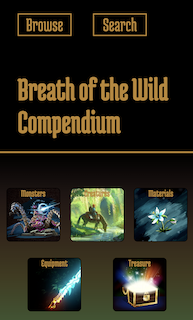
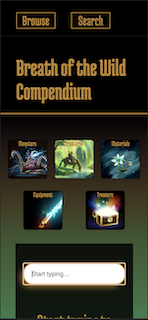
README updates

diff --git a/js/script.js b/js/script.js
@@ -10,9 +10,9 @@ let allNames = [];
 //CACHE ELEMENTS
 //List elements
 const $container = $('#category-container');
-const $listContainer = $('#list-container')
+const $listContainer = $('#list-container');
 const $list = $('#item-list');
-const $categoryTitle = $('#category-title')
+const $categoryTitle = $('#category-title');
 
 //Description Card Elements
 const $cardContainer = $('#card-container');
@@ -22,13 +22,13 @@ const $description = $('#description');
 const $locations = $('#common-locations');
 const $drops = $('#drops');
 const $browseLoadingBox = $('div.browse-loading');
-const $backBtn = $('button.back')
+const $backBtn = $('button.back');
 
 //Search Elements
 const $searchInput = $('#search-input');
 const $searchBtn = $('#search-btn');
 const $searchList = $('#search-list');
-const $placeholderText = $('#placeholder-text')
+const $placeholderText = $('#placeholder-text');
 const $searchLoadingBox = $('div.search-loading');
 
 //Hiidng elements that appear dynamically throughout the website
@@ -36,7 +36,6 @@ $listContainer.hide();
 $cardContainer.hide();
 $browseLoadingBox.hide();
 $searchLoadingBox.hide();
-$('.search-loading').css('opacity', '0');
 
 //Event listeners
 $container.on('click', ".box", createList)
@@ -47,15 +46,10 @@ $searchInput.on('keyup', generateDynamicList)
 $('#search').on('click', '.search-list-item', createCard)
 
 
-//Monitoring API requests//
+//Reseting list and card divs at start of new api calls//
 $(document).ajaxStart(function() {
-    console.log('request started')
     resetCard();
     resetList();
-})
-
-$(document).ajaxStop(function() {
-    console.log('request complete')
 })
 
 //Helper functions

diff --git a/README.md b/README.md
@@ -25,18 +25,26 @@ A web application based on the most recent (and, some will say, the *most popula
 
 ### Search Box
 ![screenshot 2](./images/botw-searchbox-empty.png)
-### Search Box in action
 
-### Mobile responsiveness!!
-![screenshot 1](./images/botw-mobile-responsive-1.png)
+### Search Box in action
+![screenshot 2](./images/botw-search-action.png)
+
+### The app is mobile responsive!
+![screenshot 1](./images/botw-mobile-responsive-1.png) 
 ![screenshot 1](./images/botw-mobile-responsive-2.png)
+![screenshot 1](./images/botw-mobile-responsive-3.png) 
+
 
 ## Getting Started
 [Click here](https://botw-compendium.netlify.app) to see the deployed project
 
 # Future Enhancements
 
+### 1. Include attack and defence stats for equipment and shields!
+### 2. Add functionality that allows to search for enemies that provide specific drops
+### 3. Include an interactive map that allows to search the database by specific locations and areas.
+
 # Author
-- [Profile]()
-- [Twitter]()
-- [LinkedIn]()
+- [Github Profile](https://github.com/polina-g) 
+- [Twitter](https://twitter.com/ThisIsPolinaG)
+- [LinkedIn](linkedin.com/in/polina-gorbunova-71657170)
